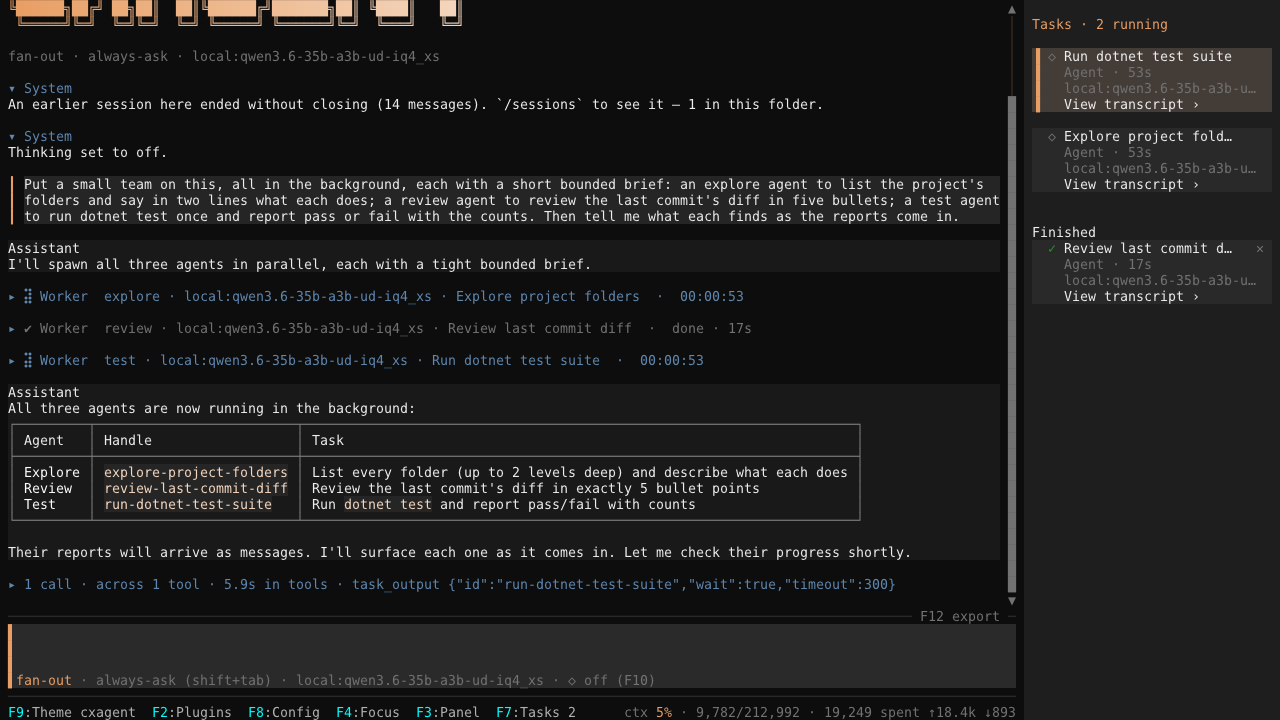
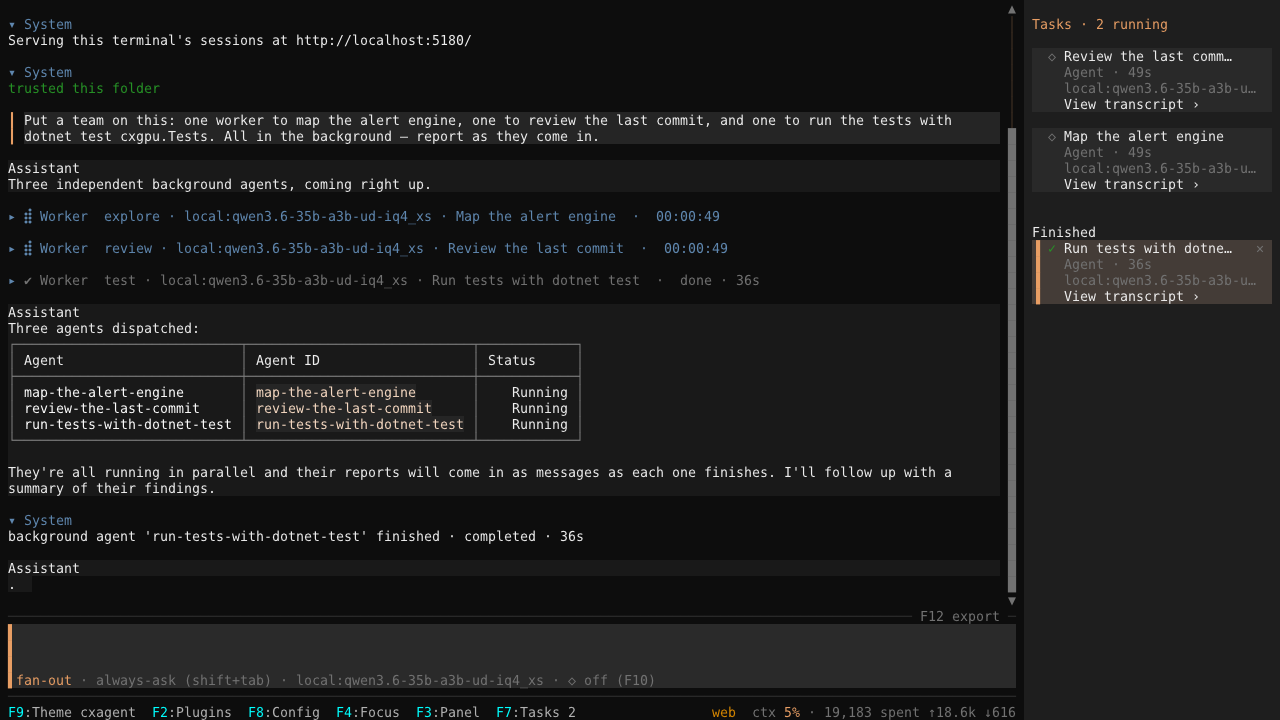
Retake the hero and team shots in one clean session

diff --git a/site/index.html b/site/index.html
@@ -73,7 +73,7 @@ try { var t = localStorage.getItem("cxagent-theme"); if (t === "light" || t === 
         <span class="tl-dots"><i class="tl-dot r"></i><i class="tl-dot y"></i><i class="tl-dot g"></i></span>
         <span class="tl-title">cxagent — ~/source/cxgpu</span>
       </div>
-      <img src="screenshots/hero.png" alt="cxagent on a GPU monitoring tool after three workers reported: the explorer's map of the folders, the reviewer's five points with a regression flagged, and the session panel splitting the tokens the workers spent from the lead's own">
+      <img src="screenshots/hero.png" alt="cxagent on a GPU monitoring tool after three workers reported: the lead's summary of the commit review, the 230 passing tests and the alert engine, and the session panel splitting the tokens the workers spent from the lead's own">
     </div>
   </div>
 </div>
@@ -135,7 +135,7 @@ try { var t = localStorage.getItem("cxagent-theme"); if (t === "light" || t === 
           <span class="tl-dots"><i class="tl-dot r"></i><i class="tl-dot y"></i><i class="tl-dot g"></i></span>
           <span class="tl-title">cxagent — ~/source/cxgpu</span>
         </div>
-        <a href="screenshots/37-background-agents.png"><img src="screenshots/37-background-agents.png" alt="The lead's conversation after it put a team on the repository: explore, review and test workers in the transcript with a table of their briefs, and the Tasks column with two still running and the reviewer finished" loading="lazy"></a>
+        <a href="screenshots/37-background-agents.png"><img src="screenshots/37-background-agents.png" alt="The lead's conversation after it put a team on the repository: explore, review and test workers in the transcript with a table of them, and the Tasks column with the explorer and reviewer still running and the test run finished" loading="lazy"></a>
       </div>
       <a class="inset win" href="screenshots/44-worker-follow-up.png"><img src="screenshots/44-worker-follow-up.png" alt="The finished reviewer's own tab: its five points, a follow-up typed into its composer asking which matters most, and its answer — the hard-coded power scale — with the diff it would make" loading="lazy"></a>
     </div>

diff --git a/site/docs/index.html b/site/docs/index.html
@@ -97,7 +97,7 @@ is loaded while a reviewer checks the last commit</em>. Each worker runs in the 
 own context; <kbd>F7</kbd> lists them, <kbd>Enter</kbd> opens one in its tab, and typing there gives
 it more — while it works, or after. A finished worker stays, with everything it learned, for the next
 question. <a href="commands.html#agents">Workers →</a>
-<figure class="step-shot"><a href="../screenshots/37-background-agents.png"><img src="../screenshots/37-background-agents.png" alt="The lead's conversation with explore, review and test workers spawned in the background and a table of their briefs, and the Tasks column with two running and the reviewer finished" loading="lazy"></a><figcaption>Three workers: <kbd>F7</kbd> lists what is running and what has finished.</figcaption></figure>
+<figure class="step-shot"><a href="../screenshots/37-background-agents.png"><img src="../screenshots/37-background-agents.png" alt="The lead's conversation with explore, review and test workers spawned in the background and a table of them, and the Tasks column with the explorer and reviewer running and the test run finished" loading="lazy"></a><figcaption>Three workers: <kbd>F7</kbd> lists what is running and what has finished.</figcaption></figure>
 </li>
 <li><strong>It remembers you.</strong> Tell it how you work — <em>always write tests with xUnit and
 plain Assert</em> — and it keeps a note: system notes, about you, go with you to every project; project
